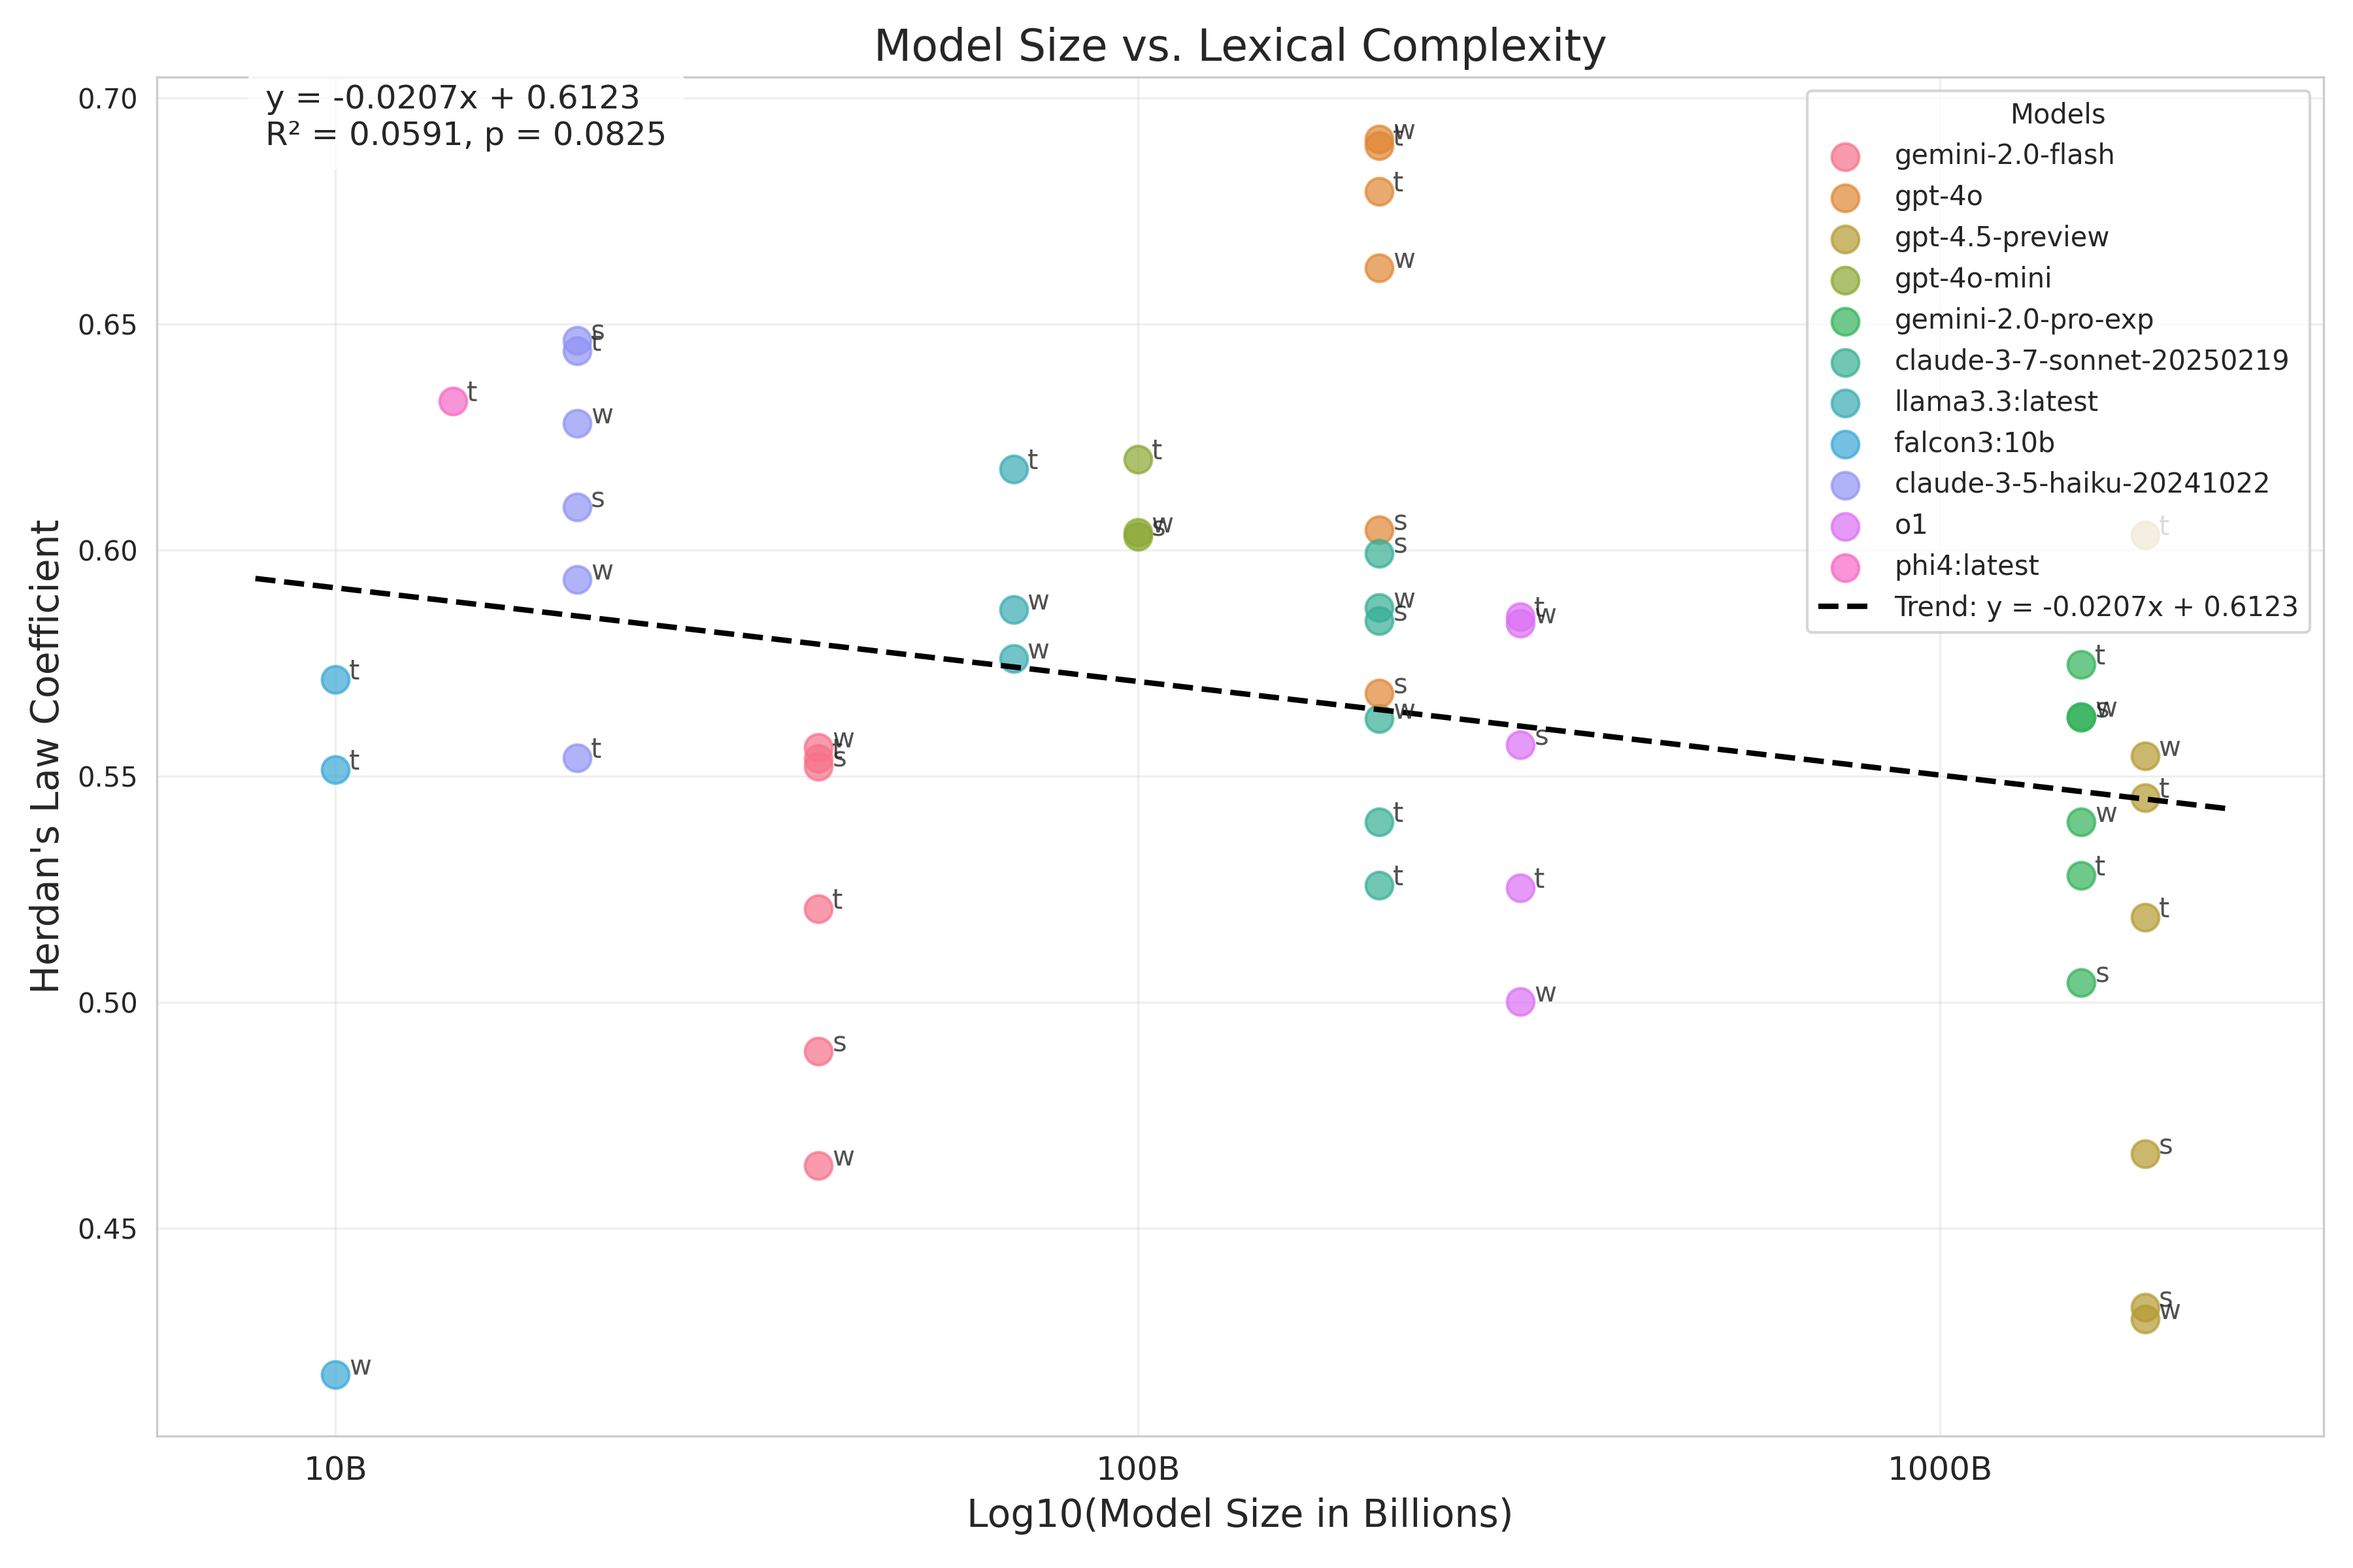
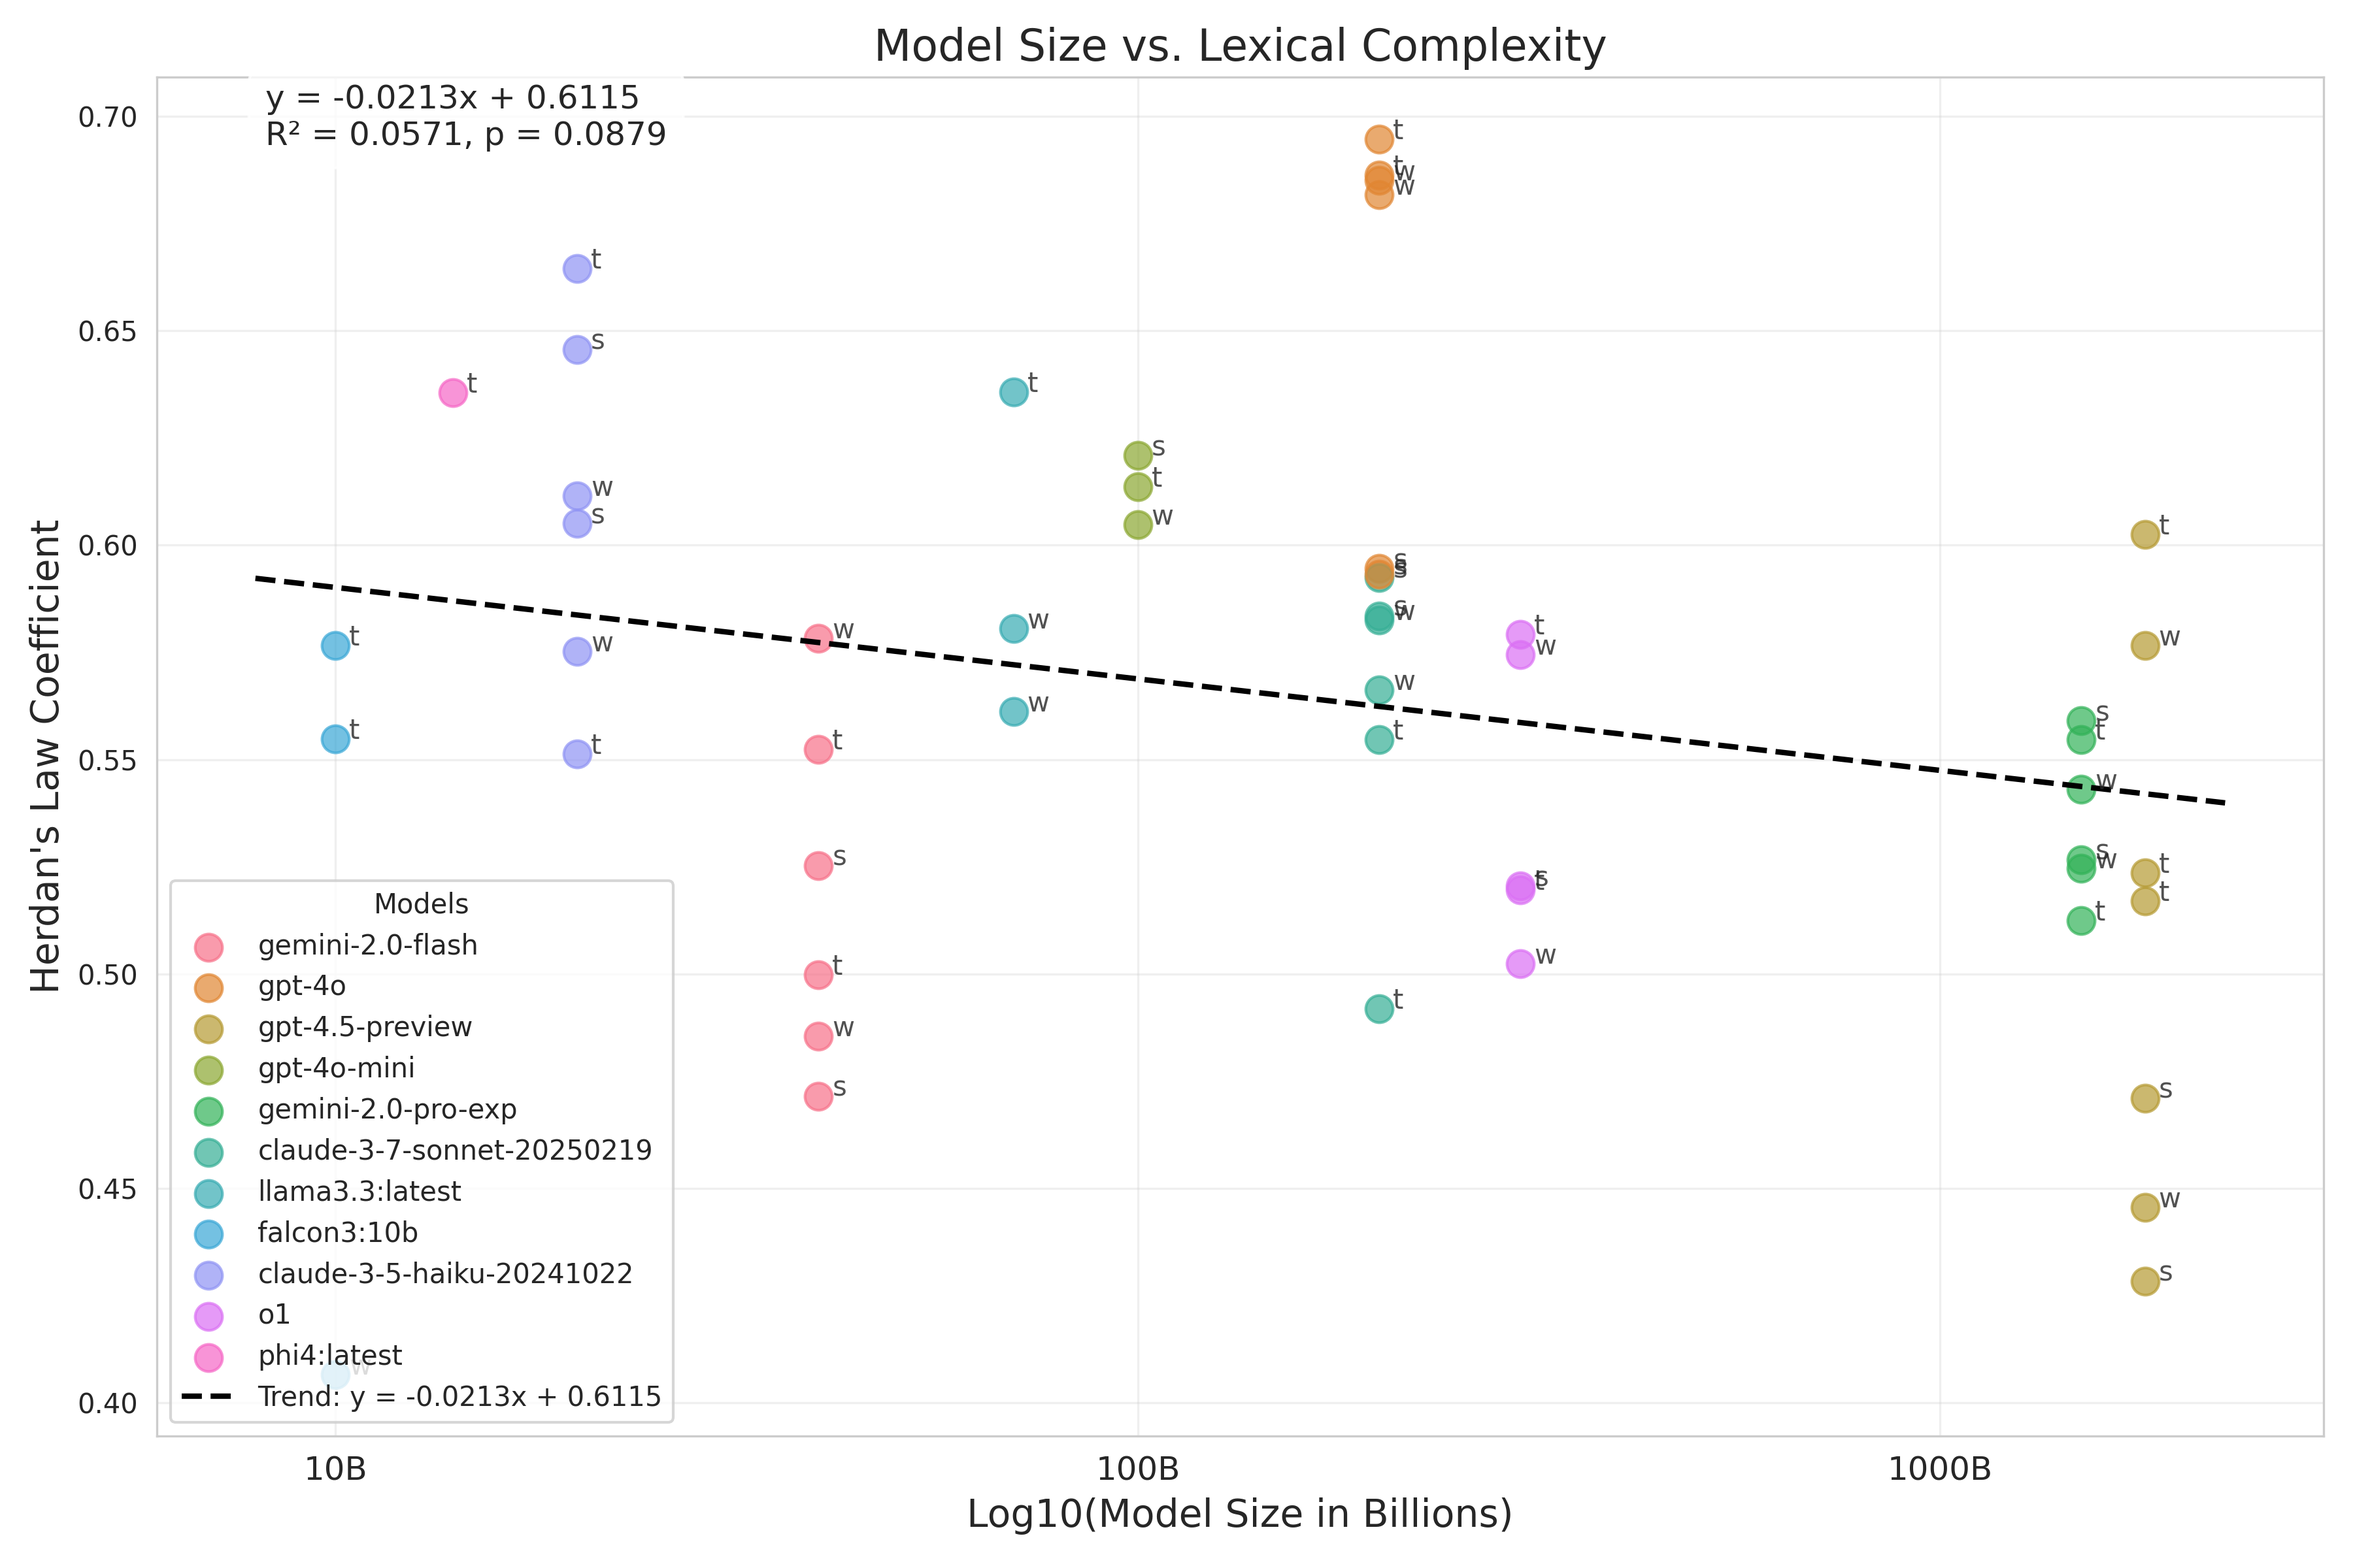
Latest experimental results

diff --git a/outputs/herdan-model-size-definitions.tex b/outputs/herdan-model-size-definitions.tex
@@ -1,3 +1,3 @@
 \newcommand{\herdansizetrend}{-0.021}
-\newcommand{\herdansizetrendpvalue}{0.083}
-\newcommand{\herdanaveragecorrelation}{0.47}
+\newcommand{\herdansizetrendpvalue}{0.088}
+\newcommand{\herdanaveragecorrelation}{0.45}

diff --git a/outputs/southgermancredit_error_rate_by_herdan_slope.tex b/outputs/southgermancredit_error_rate_by_herdan_slope.tex
@@ -1,0 +1,1 @@
+-0.072

diff --git a/outputs/southgermancredit_error_rate_by_herdan_pvalue.tex b/outputs/southgermancredit_error_rate_by_herdan_pvalue.tex
@@ -1,0 +1,1 @@
+0.740

diff --git a/outputs/titanic_error_rate_by_herdan_pvalue.tex b/outputs/titanic_error_rate_by_herdan_pvalue.tex
@@ -1,0 +1,1 @@
+0.696

diff --git a/outputs/titanic_error_rate_by_herdan_slope.tex b/outputs/titanic_error_rate_by_herdan_slope.tex
@@ -1,0 +1,1 @@
+0.137

diff --git a/outputs/wisconsin_error_rate_by_herdan_pvalue.tex b/outputs/wisconsin_error_rate_by_herdan_pvalue.tex
@@ -1,0 +1,1 @@
+0.016

diff --git a/outputs/wisconsin_error_rate_by_herdan_slope.tex b/outputs/wisconsin_error_rate_by_herdan_slope.tex
@@ -1,0 +1,1 @@
+1.592
